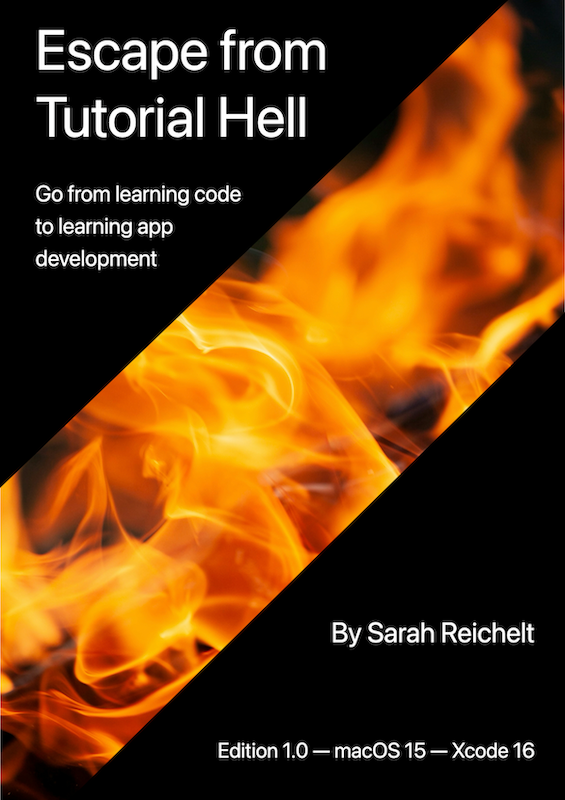
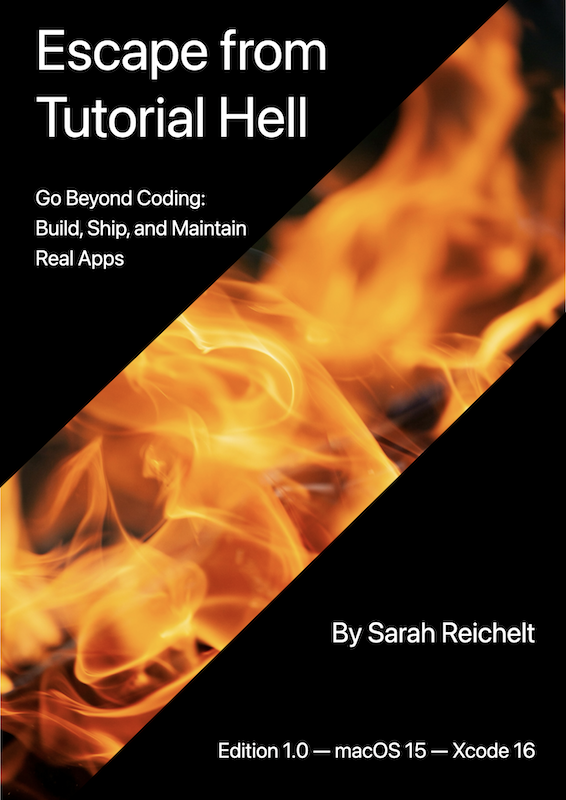
image fixes

diff --git a/src/post/2020/swiftui_mac_big_sur.md b/src/post/2020/swiftui_mac_big_sur.md
@@ -122,8 +122,6 @@ enum CodingKeys: String, CodingKey {
 
 When the app ran, I had a sidebar with collapsible sections. I wasn't that happy with the default look of the section headers and the disclosure marker for the first header was positioned beside the text instead of at the right, but I do like the selected item lozenge look. I set a frame height for the section header view and that made the spacing better but the disclosure mark for the first header was still incorrectly positioned.
 
-{{< img_center >}}
-
 ![Initial collapsible sections][i1]
 
 The `Detail` view to be displayed when a status is selected had no major changes, so I dropped in the file from the previous app, without the extra bits to do with notifications and preferences. However since SwiftUI now includes a `ProgressView`, I swapped out my "Loading..." text for a indeterminate progress twirly.

diff --git a/src/post/2020/name_this_app.md b/src/post/2020/name_this_app.md
@@ -33,9 +33,6 @@ Here is an example from a recent Crosaire:
 
 The word "off" is a hint that this is an anagram, "Users rip" has the right number of letters, so the overall clue must be "revelation". This is not a very long anagram and I think having two words makes it easier, but lets take a look at how I would solve this the old-fashioned way. (And I knew the "I" was the third last letter.)
 
-{{< gif_reset >}}
-{{< img_border-400 >}}
-
 ![Anagram solving manually][i1]
 
 If you watch this gif and then look at it when it stops repeating, hopefully you will be able to see that the answer is "SURPRISE". Refresh the page if you want to start the gif looping again.

diff --git a/src/post/2020/swiftui-color.md b/src/post/2020/swiftui-color.md
@@ -72,8 +72,6 @@ But when you get to this stage, I strongly suggest that you start using color as
 
 Go to Assets.xcassets and click the plus button at the bottom of the list of assets. Select "New Color Set" and you will get a new asset called "Color". You can double-click the name to edit it to something that makes sense to you.
 
-{{< img_border >}}
-
 ![Add Color Set][i2]
 
 While naming it after the color may seem logical, I prefer to think about the use cases for this color and set the name to something like "cardBackground" or "alertText".

diff --git a/src/post/2022/swiftui-mac-2022.md b/src/post/2022/swiftui-mac-2022.md
@@ -80,8 +80,6 @@ If anyone is still interested in the `async/await` version, check out this [earl
 
 ~~Thanks to [@davbeck](https://twitter.com/davbeck), [@malhal](https://twitter.com/malhal) and [@chriseidhof](https://twitter.com/chriseidhof) for pointing out that if I gave the `task` an `id`, it would be called whenever the `id` property changed.~~
 
-{{< img_border >}}
-
 ~~The previous image is first set to `nil`, so that the progress indicator appears.~~
 
 With all this in place, I had the basis of the app and the navigation was complete:

diff --git a/src/post/2019/swiftui_first-thoughts.md b/src/post/2019/swiftui_first-thoughts.md
@@ -9,8 +9,6 @@ toc: true
 layout: 'layouts/post.njk'
 ---
 
-{{< img_center >}}
-
 At WWDC 2019, Apple surprised us all by announcing a completely new declarative UI framework called [SwiftUI][1]. Quoting snippets from the Apple announcements, "SwiftUI is an innovative, exceptionally simple way to build user interfaces across all Apple platforms with the power of Swift" and "SwiftUI uses a declarative syntax so you can simply state what your user interface should do." But what does this mean and should we all adopt it now?
 
 <!--more-->

diff --git a/src/post/2019/swiftui-for-mac-2.md b/src/post/2019/swiftui-for-mac-2.md
@@ -17,8 +17,6 @@ Now it is time to explore some more of the features of a Mac app with SwiftUI.
 
 I had already discovered that the menu bar is configured in the Main.storyboard file. As an experiment, I will add new menu items that allows the user to select between dark mode, light mode or the system mode.
 
-{{< img_center >}}
-
 ![Menus][i1]
 
 Looking at the possibilities along the top that I could send the menu command to, the App Delegate looks like the best option, especially since these menus will change the entire app.

diff --git a/src/post/2022/macos_book.md b/src/post/2022/macos_book.md
@@ -11,8 +11,6 @@ I can finally reveal the reason I have not been blogging. I have been busy writi
 
 <!--more-->
 
-{{< img_border >}}
-
 ![Book Cover][i1]
 
 Anyone who reads my posts or tweets will know that I am a passionate advocate for building real native macOS apps. This book is aimed at iOS developers who know some Swift and SwiftUI but don't yet know all the tips and tricks needed to convert that knowledge into a great Mac experience.

diff --git a/src/post/2019/learning-swift-tuples.md b/src/post/2019/learning-swift-tuples.md
@@ -9,8 +9,6 @@ toc: true
 layout: 'layouts/post.njk'
 ---
 
-{{< img_border >}}
-
 I sometimes like to focus on aspects of the Swift language that get less publicity, but that I think are really useful without adding a lot of complexity. This time I am looking at tuples.
 
 There are many different ways of collecting data together in Swift, but for small amounts of transitory data, I find tuples to be an extremely convenient data structure.

diff --git a/src/post/2022/new_links.md b/src/post/2022/new_links.md
@@ -15,8 +15,6 @@ First, raywenderlich.com has re-branded to [Kodeco][1]. Still the same great con
 
 If you want to read my macOS by Tutorials book, it's now at [kodeco.com/books/macos-by-tutorials][2].
 
-{{< img_border >}}
-
 ![Book Cover][i1]
 
 As we all know, Twitter is in meltdown and I no longer use it. I'd love it if you came over to Mastodon. People on Mastodon are friendly and sharing. It feels much more like a community.

diff --git a/src/post/2021/swiftui_mac_menus.md b/src/post/2021/swiftui_mac_menus.md
@@ -122,8 +122,6 @@ Still inside the `commands` contents, start typing `CommandGroup` to see three o
 
 In each case, the first parameter is a `CommandGroupPlacement` that specifies one of a limited range of standard menu items.
 
-{{< img_border >}}
-
 ![CommandGroupPlacement][i1]
 
 The options for the menu items inside a `CommandGroup` are just the same as when creating your own menu.

diff --git a/src/post/2018/moving-to-the-dark-side.md b/src/post/2018/moving-to-the-dark-side.md
@@ -9,8 +9,6 @@ toc: true
 layout: 'layouts/post.njk'
 ---
 
-{{< img_border >}}
-
 With the release of macOS Mojave on 24th September 2018, I have started updating my Mac apps, mainly to enable support for dark mode if appropriate.
 
 And now I have updated this site too. Click the light bulb icon at the top right of the page to toggle between light and dark modes for this site.

diff --git a/src/post/2019/swiftui-for-mac-1.md b/src/post/2019/swiftui-for-mac-1.md
@@ -12,8 +12,6 @@ But SwiftUI works on all Apple's platforms, and as I am primarily a Mac develope
 
 <!--more-->
 
-{{< img_center >}}
-
 ## Setup
 
 I opened up Xcode and created a new project selecting the macOS App template. The project opened at the usual ContentView.swift but there were a few differences in the project structure as well as one in the ContentView struct.
